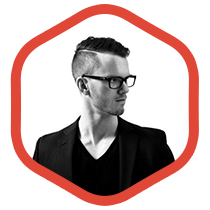
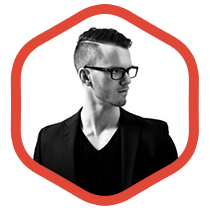
updated team photos, put into row on landing page

Changed region(s): [[0.1429, 0.1143, 0.8571, 0.7714], [0.5714, 0.6857, 0.6, 0.8], [0.1429, 0.7429, 0.1714, 0.7714]]

diff --git a/app/assets/stylesheets/landing.scss b/app/assets/stylesheets/landing.scss
@@ -143,3 +143,12 @@
     }
   }
 }
+
+.team-member-attributes {
+  display: inline-block;
+
+  li {
+    list-style-type: none;
+    text-align: center;
+  }
+}
